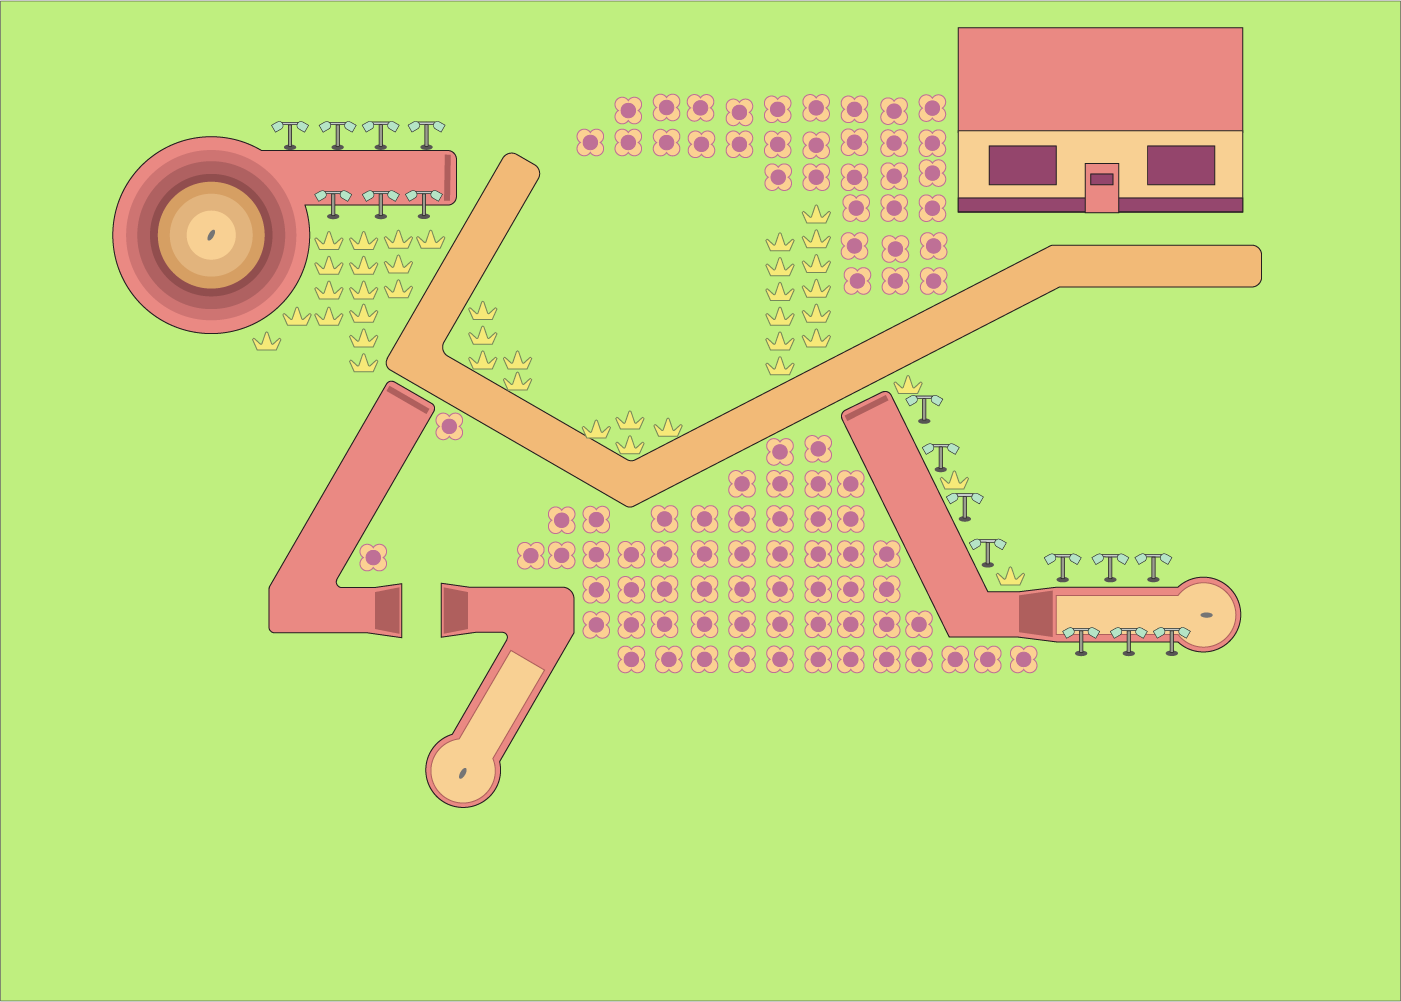
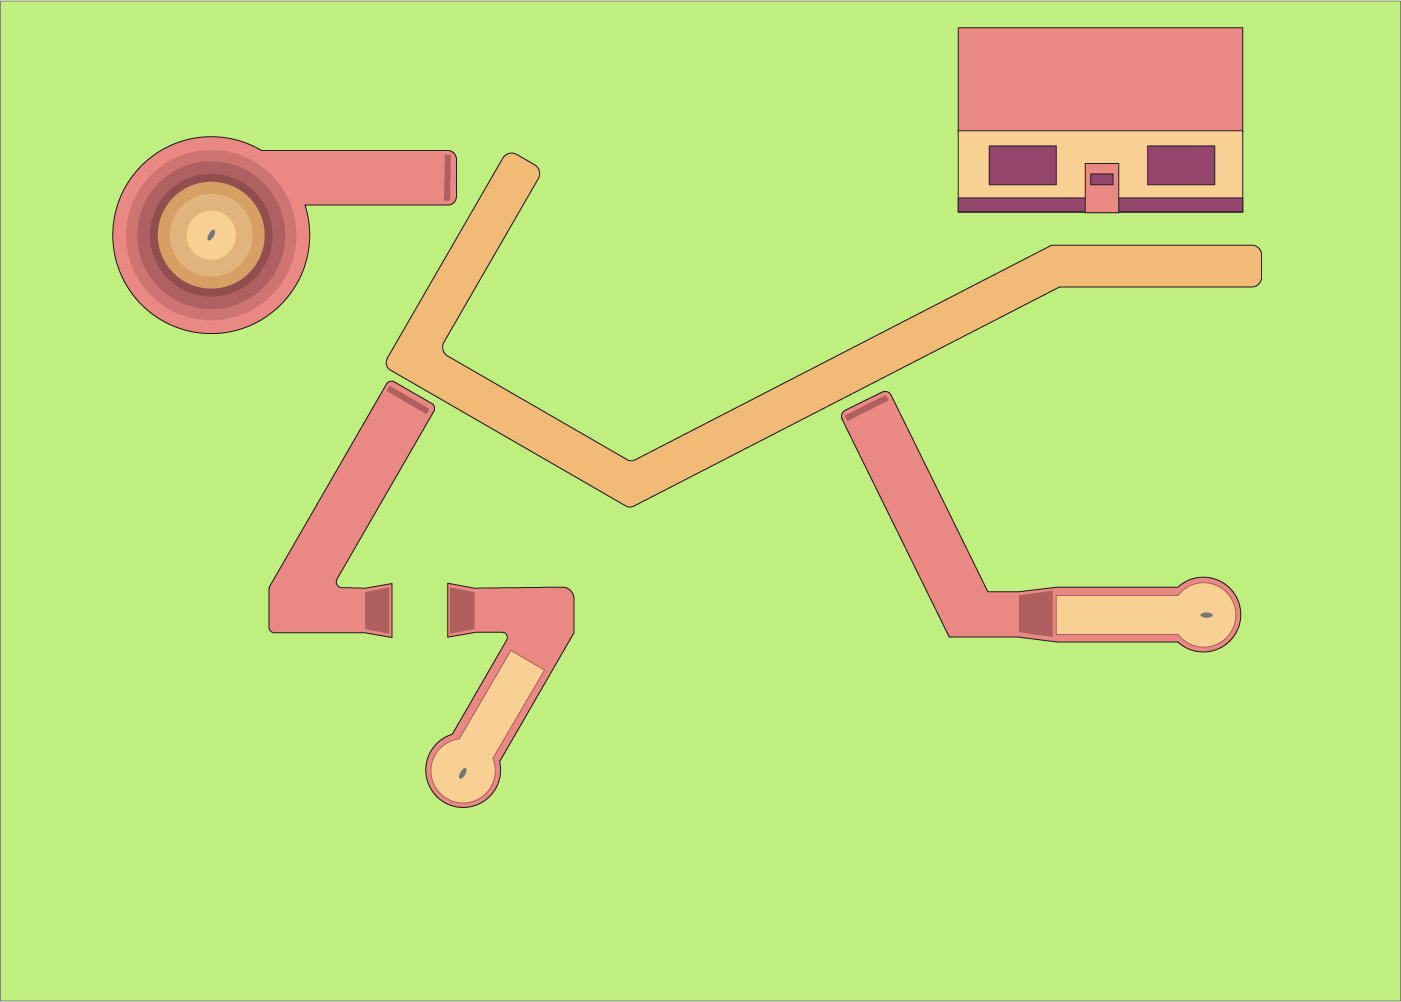
secodn boss fight and fountain on maap with collision

diff --git a/src/scenes/Map.js b/src/scenes/Map.js
@@ -8,7 +8,14 @@ class Map extends Phaser.Scene {
 
         // map assets
         this.map = this.load.image('map', 'mapbase.png')
-        this.extras = this.load.image('extra', 'mapextra.png')
+        this.extras = this.load.image('extra', 'mapextra-01.png')
+        this.flowers = this.load.image('flowers', 'flower.png')
+        this.water = this.load.spritesheet('lake', 'fountainanimation.png', {
+            frameWidth: 1400,
+            frameHeight: 1000,
+            startFrame: 0,
+            endFrame: 1
+        })
 
         this.load.image('windfight', 'windmill-fight.png')
         this.load.image('waterfight', 'waterfountain-fight.png')
@@ -22,8 +29,21 @@ class Map extends Phaser.Scene {
     }
 
     create() {
-        this.add.image(0, 0, 'map').setOrigin(0)
+        this.add.image(0, 0, 'map').setOrigin(0).setDepth(1)
         this.add.image(0, 0, 'extra').setOrigin(0).setDepth(10)
+        this.add.image(0, 0, 'flowers').setOrigin(0).setDepth(2)
+        this.anims.create({
+            key: 'fountain',
+            frames: this.anims.generateFrameNumbers('lake', {
+                start: 0,
+                end: 1
+            }),
+            frameRate: 1,
+            repeat: -1
+        })
+        this.fountain = this.add.sprite(0, 0, 'lake').setOrigin(0)
+        this.fountain.play('fountain')
+        
 
         // Add player to the map scene`
         this.lina = new Follow(this, 1250, 210, 'lina', 0, 'down', true)
@@ -31,7 +51,7 @@ class Map extends Phaser.Scene {
         this.ace.setDepth(5)
         this.lina.setDepth(5)
 
-        //ADDING COLLIDERS
+        //ADDING COLLIDERS 
         //line a - windmill
         let lineA = this.add.rectangle(866, 407, 41, 10, 0xAF5F5D).setAngle(-27.57)
         this.lineA = lineA
@@ -46,7 +66,32 @@ class Map extends Phaser.Scene {
         let lineC = this.add.rectangle(407, 398, 10, 45, 0xAF5F5D).setAngle(123)
         this.lineC = lineC
         this.physics.add.existing(this.lineC, true)
-        
+
+        //colliders for water
+        this.circle1 = this.add.circle(169, 690, 204, 0xffffff).setOrigin(0)
+        this.physics.add.existing(this.circle1, true)
+        this.circle1.body.setCircle(102)
+
+        this.circle2 = this.add.circle(312, 639, 65, 0xffffff).setOrigin(0)
+        this.physics.add.existing(this.circle2, true)
+        this.circle2.body.setCircle(65)
+
+        this.circle3 = this.add.circle(395, 441, 65, 0xffffff).setOrigin(0)
+        this.physics.add.existing(this.circle3, true)
+        this.circle3.body.setCircle(65)
+
+        this.rectangle1 = this.add.rectangle(395, 502, 48, 200).setOrigin(0)
+        this.physics.add.existing(this.rectangle1, true)
+
+        this.physics.add.collider(this.ace, this.circle1)
+        this.physics.add.collider(this.ace, this.circle2)
+        this.physics.add.collider(this.ace, this.circle3)
+        this.physics.add.collider(this.ace, this.rectangle1)
+
+        this.physics.add.collider(this.lina, this.circle1)
+        this.physics.add.collider(this.lina, this.circle2)
+        this.physics.add.collider(this.lina, this.circle3)
+        this.physics.add.collider(this.lina, this.rectangle1)
         
         this.guyFSM = this.ace.scene.guyFSM
         this.followFSM = this.lina.scene.followFSM
@@ -61,6 +106,7 @@ class Map extends Phaser.Scene {
         this.keys = this.input.keyboard.createCursorKeys()
         this.keys.HKey = this.input.keyboard.addKey(Phaser.Input.Keyboard.KeyCodes.H)
         this.keys.FKey = this.input.keyboard.addKey(Phaser.Input.Keyboard.KeyCodes.F)
+        this.keys.Space = this.input.keyboard.addKey(Phaser.Input.Keyboard.KeyCodes.SPACE)
 
         // debug key listener (assigned to D key)
         this.input.keyboard.on('keydown-D', function() {
@@ -104,17 +150,19 @@ class Map extends Phaser.Scene {
         if (this.physics.overlap(this.ace, this.lineA)) {
             console.log("windmill");
             this.windfight.setVisible(true);
-        } else if (this.physics.overlap(this.ace, this.lineB)) {
+            if(Phaser.Input.Keyboard.JustDown(this.keys.space)) {
+                this.scene.start("windmill")
+            }
+        } else if (this.physics.overlap(this.ace, this.lineC)) {
             console.log("water fountain");
             this.waterfight.setVisible(true);
+            if(Phaser.Input.Keyboard.JustDown(this.keys.space)) {
+                this.scene.start("waterfountain")
+            }
         
         }else {
             this.windfight.setVisible(false)
             this.waterfight.setVisible(false)
-        }
-
-        if(Phaser.Input.Keyboard.JustDown(this.keys.FKey)) {
-            this.scene.start("fightscene")
         }
     }
 }

diff --git a/src/scenes/WaterFight.js b/src/scenes/WaterFight.js
@@ -1,6 +1,6 @@
-class WindmillFight extends Phaser.Scene {
+class WaterFight extends Phaser.Scene {
     constructor() {
-        super("windmill");
+        super("waterfountain");
     }
 
     preload() {
@@ -11,11 +11,11 @@ class WindmillFight extends Phaser.Scene {
         this.load.image('success', 'success-textbox.png')
 
 
-        this.load.spritesheet('windmill', 'spritesheet-windmill.png', {
-            frameWidth: 1265,
-            frameHeight: 1250,
+        this.load.spritesheet('water', 'spritesheet-fountain.png', {
+            frameWidth: 1169,
+            frameHeight: 1449,
             startFrame: 0,
-            endFrame: 3,
+            endFrame: 1,
         })
 
         this.load.spritesheet('xmash', 'xmash.png', {
@@ -52,19 +52,19 @@ class WindmillFight extends Phaser.Scene {
 
         this.anims.create({
             key: 'spin',
-            frames: this.anims.generateFrameNumbers('windmill', {
+            frames: this.anims.generateFrameNumbers('water', {
                 start: 0,
-                end: 3
+                end: 1
             }),
-            frameRate: 10,
+            frameRate: 5,
             repeat: -1
         })
 
-        let windmill = this.add.sprite(-150, 220, 'windmill');
-        windmill.setScale(0.25)
-        let windmillTween = this.tweens.add({
+        let water = this.add.sprite(-150, 220, 'water');
+        water.setScale(0.25)
+        let waterTween = this.tweens.add({
             delay: 125,
-            targets: windmill,
+            targets: water,
             x: 220,
             ease: 'Linear',
             duration: 250,
@@ -72,8 +72,8 @@ class WindmillFight extends Phaser.Scene {
             paused: false
         });
 
-        windmillTween.play();
-        windmill.play('spin')
+        waterTween.play();
+        water.play('spin')
 
 
         // Create animations

diff --git a/index.html b/index.html
@@ -10,6 +10,7 @@
     <script src="./src/prefabs/Follow.js"></script>
     <script src="./src/prefabs/Guy.js"></script>
     <script src="./src/scenes/WindmillFight.js"></script>
+    <script src="./src/scenes/WaterFight.js"></script>
     <script src="./src/scenes/Map.js"></script>
     <script src="./src/scenes/Title.js"></script>
     <script src="./src/main.js"></script>

diff --git a/src/main.js b/src/main.js
@@ -11,7 +11,7 @@ let config = {
             debugShowStaticBody: true
         }
     },
-    scene: [ Load, Title, Map, Fight ]
+    scene: [ Load, Title, Map, WindmillFight, WaterFight ]
 }
 
 let game = new Phaser.Game(config)
